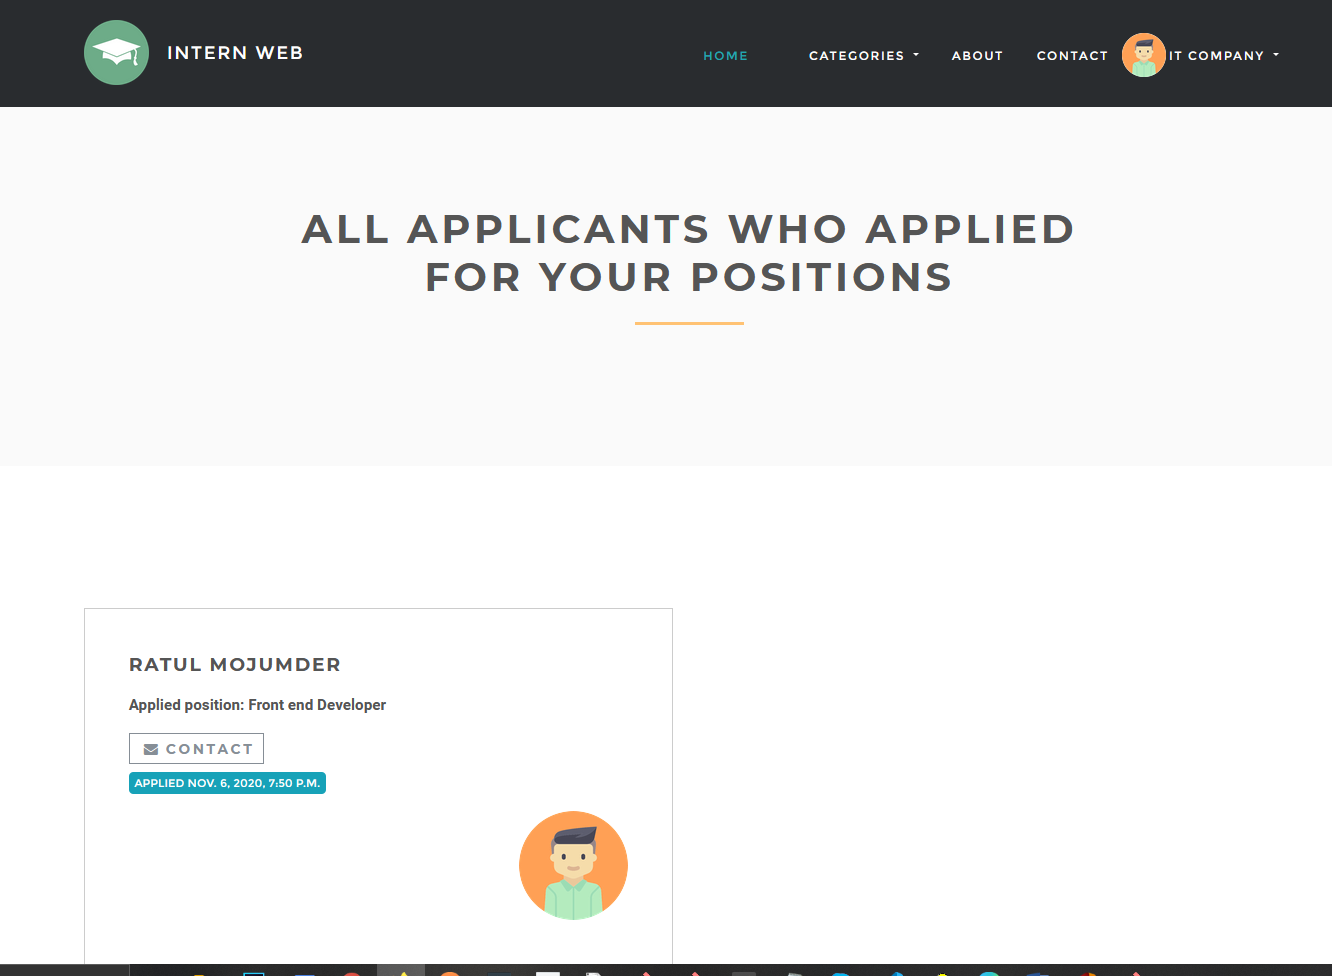
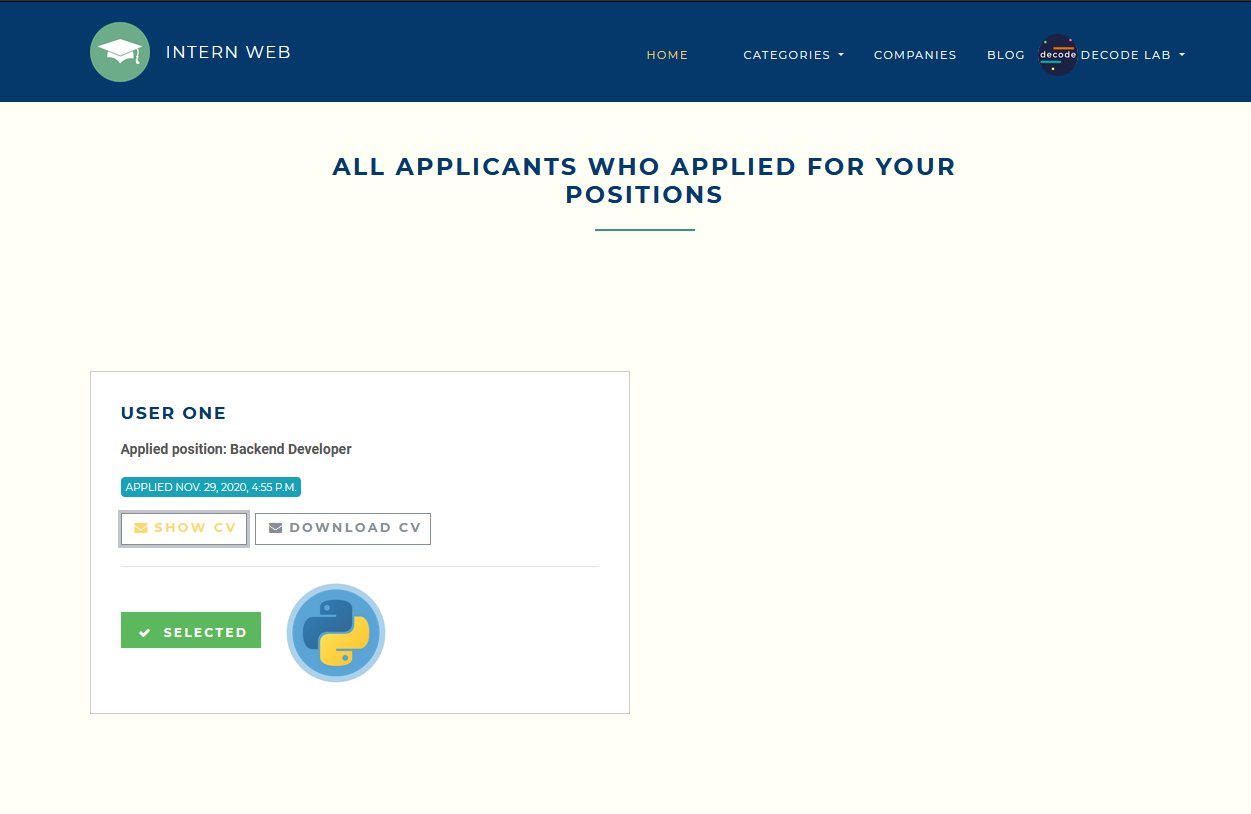
readme.md

diff --git a/README.md b/README.md
@@ -1,3 +1,8 @@
 ## Django Job Portal
 
 ### Features
+
+### HOME
+![](.screenshots/home.png)
+
+![](.screenshots/home_lower_part.png)
